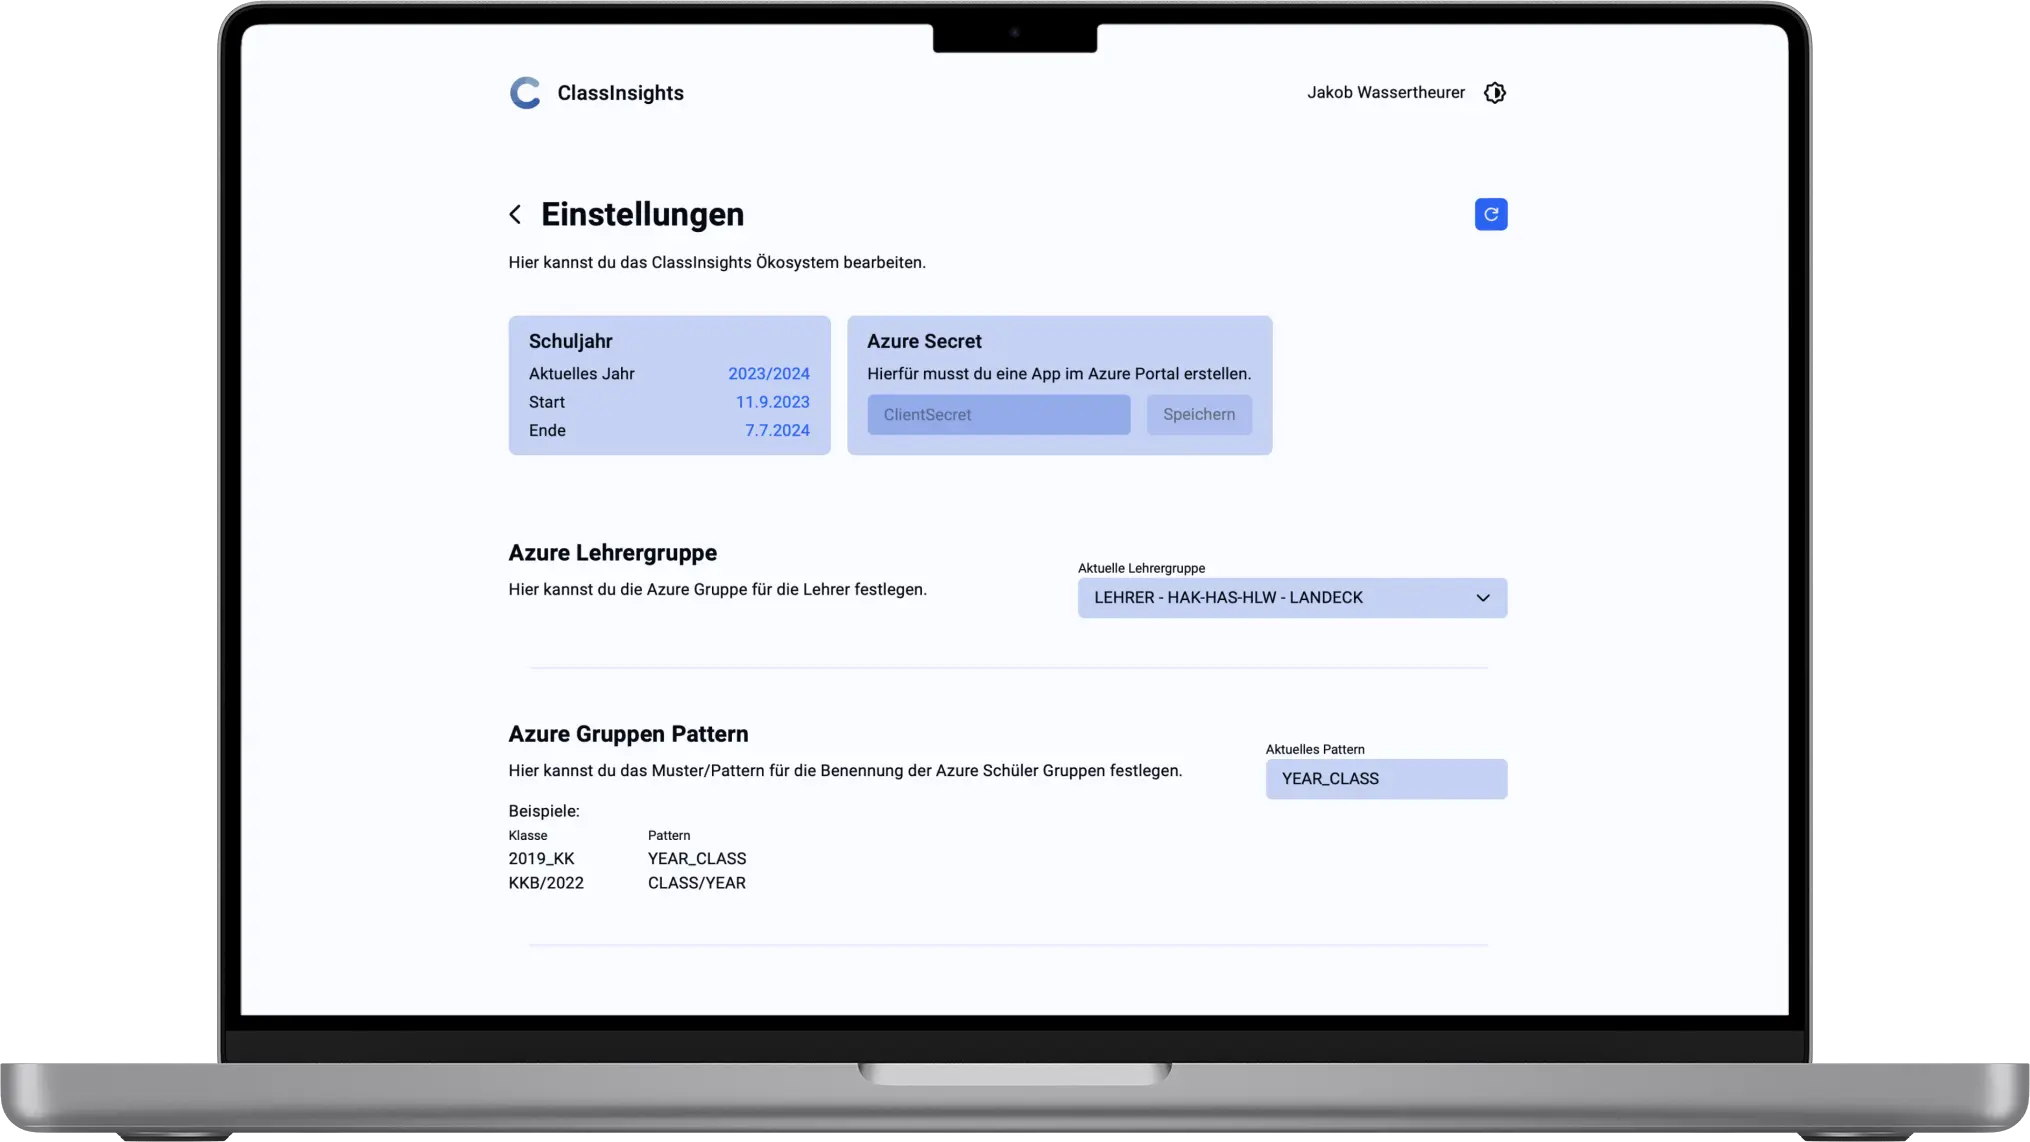
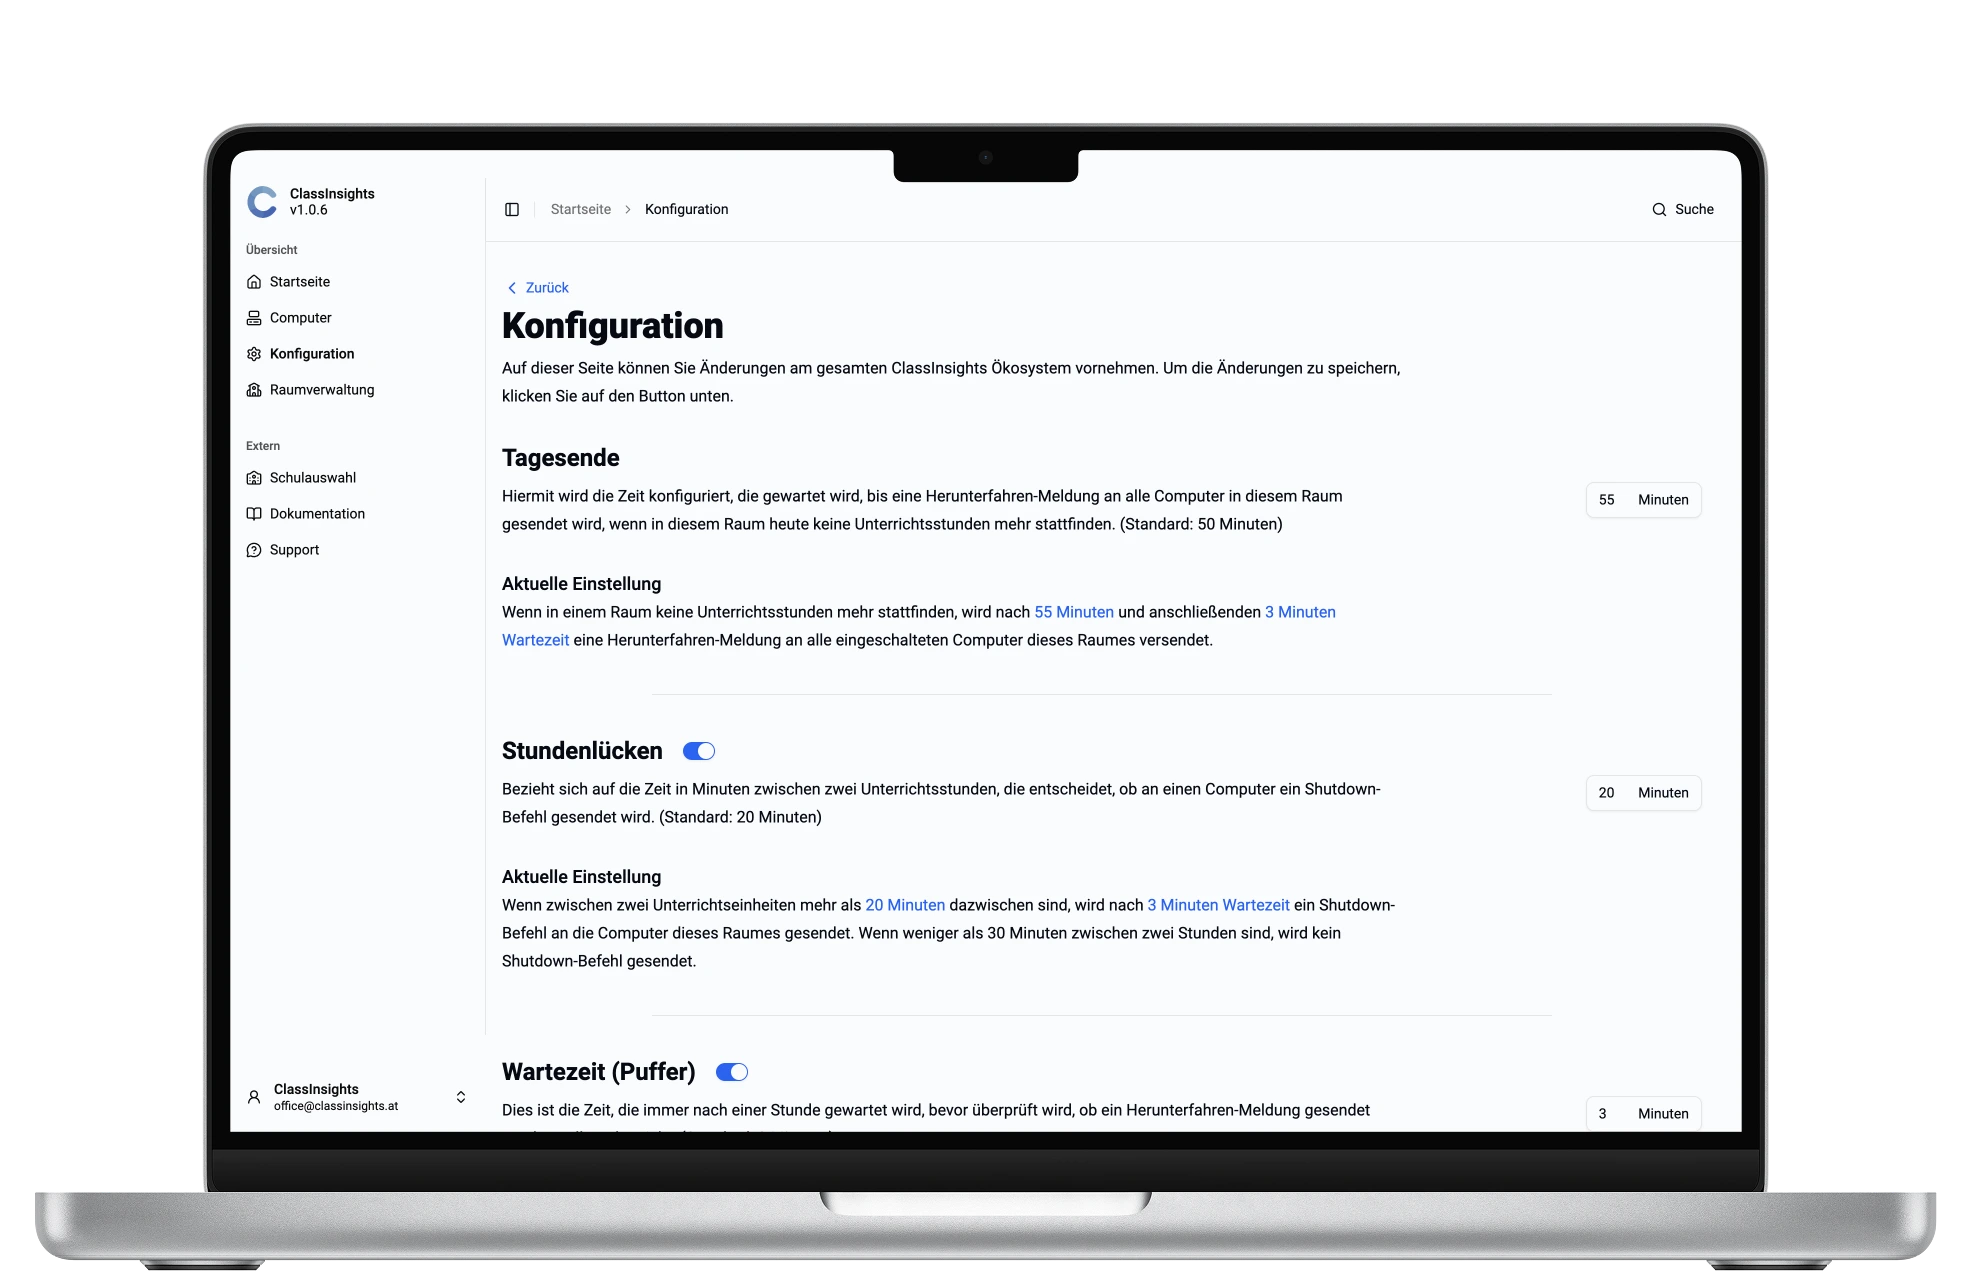
feat: updated dashboard images

diff --git a/src/components/sections/Dashboard.tsx b/src/components/sections/Dashboard.tsx
@@ -1,84 +1,120 @@
 import { useCallback, useState } from "react";
-import roomPath from "../../assets/img/room.webp";
+import updatePath from "../../assets/img/update.webp";
 import settingsPath from "../../assets/img/settings.webp";
+import computerPath from "../../assets/img/computer.webp";
 import ArrowSVG from "../../assets/svg/arrow.svg?react";
 
 /** Dashboard section with multiple pages to navigate */
 const Dashboard = () => {
-	const [pageIndex, setPageIndex] = useState(0);
+  const [pageIndex, setPageIndex] = useState(0);
 
-	/** Variable content to display (changes with another pageIndex) */
-	const content = useCallback(
-		(index: number) =>
-			index === 0
-				? {
-						title: "Jederzeit alle Computer verwalten",
-						description:
-							"Mit dem ClassInsights Dashboard behalten Sie stets alle Computer im Überblick und können Informationen auslesen, diese manuell herunterfahren, neustarten oder den aktuellen Nutzer abmelden.",
-					}
-				: {
-						title: "Einfach Änderungen vornehmen",
-						description:
-							"Das ClassInsights Dashboard ermöglicht es, schnell und einfach das System zu aktualisieren und zentral Änderungen am Ökosystem vorzunehmen. Einige Einstellungen werden sogar automatisiert zu Schulbeginn geändert!",
-					},
-		[],
-	);
+  /** Variable content to display (changes with another pageIndex) */
+  const content = useCallback(
+    (index: number) =>
+      index === 0
+        ? {
+            title: "Jederzeit alle Computer verwalten",
+            description:
+              "Mit dem ClassInsights Dashboard behalten Sie stets alle Computer im Überblick und können Informationen auslesen, diese manuell herunterfahren, neustarten oder den aktuellen Nutzer abmelden.",
+          }
+        : index === 1
+        ? {
+            title: "Einfach Änderungen vornehmen",
+            description:
+              "Das ClassInsights Dashboard ermöglicht es, schnell und einfach zentrale Änderungen am System vorzunehmen. Einige Einstellungen können sogar automatisch vom Active Directory übernommen werden.",
+          }
+        : {
+            title: "Automatische Updates",
+            description:
+              "Sie können mit nur einem Klick das gesamte ClassInsights System automatisch aktualisieren. Keine nervigen manuellen Updates mehr!",
+          },
 
-	/** Update the current page index if it's different from the current one */
-	const updatePageIndex = useCallback(
-		(index: number) => (index !== pageIndex ? setPageIndex(index) : null),
-		[pageIndex],
-	);
+    []
+  );
 
-	/** Get specific navigation button */
-	const getArrowSVG = useCallback(
-		(index: number, isMobile: boolean) => (
-			<ArrowSVG
-				key={`page-${index}`}
-				width={25}
-				className={`shrink-0 fill-black ${index === 0 ? "rotate-180 " : ""}${pageIndex === index ? "opacity-20 " : "cursor-pointer "}${isMobile ? "lg:hidden" : "hidden lg:inline"}`}
-				onClick={() => updatePageIndex(index)}
-				onKeyDown={() => updatePageIndex(index)}
-				aria-label={index === 0 ? "Vorherige Seite" : "Nächste Seite"}
-			/>
-		),
-		[pageIndex, updatePageIndex],
-	);
+  /** Navigate to previous or next page */
+  const navigatePage = useCallback(
+    (direction: "prev" | "next") => {
+      if (direction === "prev" && pageIndex > 0) {
+        setPageIndex(pageIndex - 1);
+      } else if (direction === "next" && pageIndex < 2) {
+        setPageIndex(pageIndex + 1);
+      }
+    },
+    [pageIndex]
+  );
 
-	return (
-		<section className="flex w-full flex-col items-center gap-10 lg:flex-row ">
-			<div className="w-full select-none">
-				{pageIndex === 0 ? (
-					<img src={roomPath} alt="Room Page of the ClassInsights Dashboard" />
-				) : (
-					<img src={settingsPath} alt="Settings Page of the ClassInsights Dashboard" />
-				)}
-			</div>
-			{/* Explaining Content */}
-			<div className="flex w-full items-center xl:w-4/5 2xl:w-3/5">
-				{getArrowSVG(0, false)}
-				<div className="relative flex flex-col justify-center text-center md:px-5">
-					{/* Mobile Placeholder for identical height */}
-					<div className="-z-10 relative select-none opacity-0 lg:hidden">
-						<h2 className="pb-4 ">{content(1).title}</h2>
-						<p className="">{content(1).description}</p>
-					</div>
-					{/* Display Content */}
-					<div className="absolute top-0 lg:static">
-						<h2 className="pb-4">{content(pageIndex).title}</h2>
-						<p>{content(pageIndex).description}</p>
-					</div>
-					{/* Mobile Navigation */}
-					<div className="flex items-center justify-center gap-12 md:mt-4 lg:hidden">
-						{getArrowSVG(0, true)}
-						<p className="lg:hidden">Seite {pageIndex + 1}</p>
-						{getArrowSVG(1, true)}
-					</div>
-				</div>
-				{getArrowSVG(1, false)}
-			</div>
-		</section>
-	);
+  /** Get specific navigation button */
+  const getArrowSVG = useCallback(
+    (direction: "prev" | "next", isMobile: boolean) => {
+      const isDisabled =
+        direction === "prev" ? pageIndex === 0 : pageIndex === 2;
+
+      return (
+        <ArrowSVG
+          key={`page-${direction}`}
+          width={25}
+          className={`shrink-0 fill-black ${
+            direction === "prev" ? "rotate-180 " : ""
+          }${isDisabled ? "opacity-20 " : "cursor-pointer "}${
+            isMobile ? "lg:hidden" : "hidden lg:inline"
+          }`}
+          onClick={() => !isDisabled && navigatePage(direction)}
+          onKeyDown={() => !isDisabled && navigatePage(direction)}
+          aria-label={
+            direction === "prev" ? "Vorherige Seite" : "Nächste Seite"
+          }
+        />
+      );
+    },
+    [pageIndex, navigatePage]
+  );
+
+  return (
+    <section className="flex w-full flex-col items-center gap-10 lg:flex-row ">
+      <div className="w-full select-none">
+        {pageIndex === 0 ? (
+          <img
+            src={computerPath}
+            alt="Room Page of the ClassInsights Dashboard"
+          />
+        ) : pageIndex === 1 ? (
+          <img
+            src={settingsPath}
+            alt="Settings Page of the ClassInsights Dashboard"
+          />
+        ) : (
+          <img
+            src={updatePath}
+            alt="Update Page of the ClassInsights Dashboard"
+          />
+        )}
+      </div>
+      {/* Explaining Content */}
+      <div className="flex w-full items-center xl:w-4/5 2xl:w-3/5">
+        {getArrowSVG("prev", false)}
+        <div className="relative flex flex-col justify-center text-center md:px-5">
+          {/* Mobile Placeholder for identical height */}
+          <div className="-z-10 relative select-none opacity-0 lg:hidden">
+            <h2 className="pb-4 ">{content(1).title}</h2>
+            <p className="">{content(1).description}</p>
+          </div>
+          {/* Display Content */}
+          <div className="absolute top-0 lg:static">
+            <h2 className="pb-4">{content(pageIndex).title}</h2>
+            <p>{content(pageIndex).description}</p>
+          </div>
+          {/* Mobile Navigation */}
+          <div className="flex items-center justify-center gap-12 md:mt-4 lg:hidden">
+            {getArrowSVG("prev", true)}
+            <p className="lg:hidden">Seite {pageIndex + 1}</p>
+            {getArrowSVG("next", true)}
+          </div>
+        </div>
+        {getArrowSVG("next", false)}
+      </div>
+    </section>
+  );
 };
 
 export default Dashboard;

diff --git a/src/routes/Login.tsx b/src/routes/Login.tsx
@@ -56,7 +56,10 @@ const Login = () => {
 						break;
 				}
 
-				if (code !== 200) setIsLoading(false);
+				if (code !== 200) {
+					setIsLoading(false);
+					toasts.showMessage("Anmeldung fehlgeschlagen", "error");
+				}
 			})
 			.catch(() => {
 				setError("Ein unerwarteter Fehler ist aufgetreten. Bitte versuchen Sie es später erneut.");
